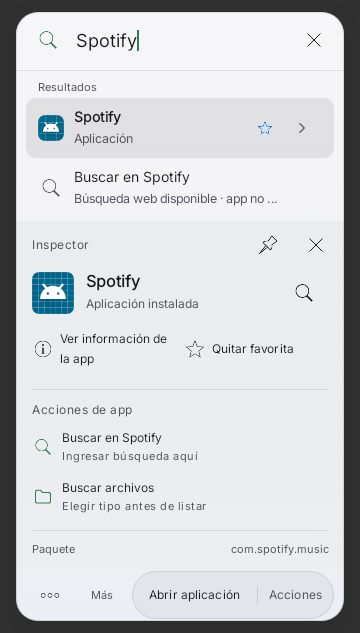
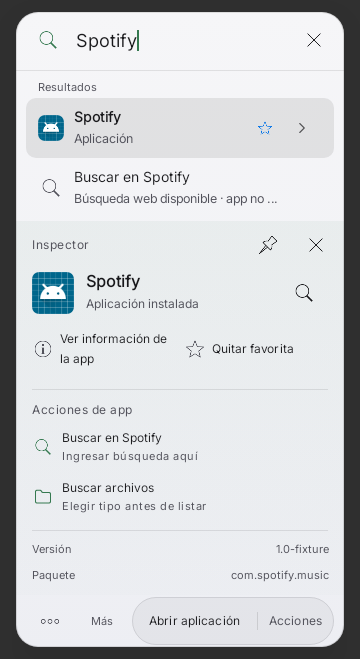
feat(ui): apply compact Obsidian Refinado foundation

diff --git a/app/src/main/java/dev/bautista/spotlight/ui/GlassContextFooter.kt b/app/src/main/java/dev/bautista/spotlight/ui/GlassContextFooter.kt
@@ -44,14 +44,16 @@ import androidx.compose.ui.unit.*
     Text(if(wide)expandLabel else if(expandLabel.startsWith("Ver menos"))"Menos" else "Más",fontSize=GlassTokens.scaledSp(11.sp,appearance),color=colors.onSurfaceVariant)
    }
    if(autocomplete && !actionsOpen && wide)Row(Modifier.padding(horizontal=(8f*d).dp),verticalAlignment=Alignment.CenterVertically){Text("Autocompletar",fontSize=GlassTokens.scaledSp(11.sp,appearance),color=colors.onSurfaceVariant);Spacer(Modifier.width(6.dp));GlassKeycap("Tab")}
-   if(enabled)Row(Modifier.then(if(wide)Modifier else Modifier.weight(1f)).testTag("command-dock-actions").background(colors.onSurface.copy(alpha=.045f),RoundedCornerShape(24.dp))
-    .border(1.dp,colors.onSurface.copy(alpha=.10f),RoundedCornerShape(24.dp)),verticalAlignment=Alignment.CenterVertically) {
-    TextButton(onClick=onExecute,enabled=!actionsOpen,contentPadding=PaddingValues(horizontal=(11f*d).dp),modifier=Modifier.then(if(wide)Modifier.widthIn(max=220.dp) else Modifier.weight(1f)).heightIn(min=48.dp)) {
-     Text(if(actionsOpen)"Ejecutar" else primaryLabel,fontSize=GlassTokens.scaledSp(12.sp,appearance),maxLines=1,overflow=TextOverflow.Ellipsis,color=colors.onSurface)
+   // A quiet text dock on touch layouts; preserve callbacks, 48dp targets and total height.
+   val dock=if(wide)Modifier.background(colors.onSurface.copy(alpha=.035f),RoundedCornerShape(12.dp))
+    .border(1.dp,colors.onSurface.copy(alpha=.08f),RoundedCornerShape(12.dp)) else Modifier
+   if(enabled)Row(Modifier.then(if(wide)Modifier else Modifier.weight(1f)).testTag("command-dock-actions").then(dock),verticalAlignment=Alignment.CenterVertically) {
+    TextButton(onClick=onExecute,enabled=!actionsOpen,contentPadding=PaddingValues(horizontal=(11f*d).dp),modifier=Modifier.then(if(wide)Modifier.widthIn(max=220.dp) else Modifier.weight(1f)).heightIn(min=48.dp).testTag("command-primary")) {
+     Text(if(actionsOpen)"Ejecutar" else primaryLabel,fontSize=GlassTokens.scaledSp(12.sp,appearance),maxLines=1,overflow=TextOverflow.Ellipsis,color=colors.onSurface.copy(alpha=if(actionsOpen).38f else 1f))
      if(wide){Spacer(Modifier.width(6.dp));GlassKeycap("Enter")}
     }
-    Box(Modifier.width(1.dp).height(18.dp).background(colors.onSurface.copy(alpha=.12f)))
-    TextButton(onClick=onActions,contentPadding=PaddingValues(horizontal=(11f*d).dp),modifier=Modifier.heightIn(min=48.dp)) {
+    if(wide)Box(Modifier.width(1.dp).height(18.dp).background(colors.onSurface.copy(alpha=.10f)))
+    TextButton(onClick=onActions,contentPadding=PaddingValues(horizontal=(11f*d).dp),modifier=Modifier.heightIn(min=48.dp).testTag("command-actions")) {
      Text(if(actionsOpen)"Volver" else "Acciones",fontSize=GlassTokens.scaledSp(12.sp,appearance),color=colors.onSurfaceVariant)
      if(wide){Spacer(Modifier.width(6.dp));GlassKeycap(if(actionsOpen)"Escape" else actionsKeyLabel)}
     }

diff --git a/app/src/test/java/dev/bautista/spotlight/ui/C1ChromeContractTest.kt b/app/src/test/java/dev/bautista/spotlight/ui/C1ChromeContractTest.kt
@@ -1,0 +1,47 @@
+package dev.bautista.spotlight.ui
+
+import androidx.compose.foundation.layout.*
+import androidx.compose.runtime.*
+import androidx.compose.ui.Modifier
+import androidx.compose.ui.graphics.Color
+import androidx.compose.ui.test.*
+import androidx.compose.ui.test.junit4.createComposeRule
+import androidx.compose.ui.unit.dp
+import dev.bautista.spotlight.SpotlightApp
+import dev.bautista.spotlight.data.Config as AppConfig
+import org.junit.*
+import org.junit.Assert.*
+import org.junit.runner.RunWith
+import org.robolectric.RobolectricTestRunner
+import org.robolectric.annotation.Config
+
+@RunWith(RobolectricTestRunner::class)
+@Config(sdk=[33],application=SpotlightApp::class)
+class C1ChromeContractTest {
+    @get:Rule val ui=createComposeRule()
+    @Test fun quietTouchDockKeepsTargetsHeightAndIndependentActions() {
+        var opens=0;var actions=0
+        ui.setContent { SpotlightTheme("light",AppConfig(theme="light")) { Box(Modifier.width(320.dp)) {
+            GlassContextFooter(false,true,"Abrir aplicación",{opens++},{actions++})
+        } } }
+        ui.onNodeWithTag("context-footer").assertHeightIsEqualTo(52.dp)
+        ui.onNodeWithTag("command-primary").assertHeightIsAtLeast(48.dp).performClick()
+        ui.onNodeWithTag("command-actions").assertHeightIsAtLeast(48.dp).performClick()
+        ui.runOnIdle{assertEquals(1,opens);assertEquals(1,actions)}
+    }
+    @Test fun openActionMenuCannotExecuteTheStalePrimaryFromDock() {
+        var opens=0;var backs=0
+        ui.setContent { SpotlightTheme("dark") { Box(Modifier.width(360.dp)) {
+            GlassContextFooter(false,true,"Abrir",{opens++},{backs++},actionsOpen=true)
+        } } }
+        ui.onNodeWithTag("command-primary").assertIsNotEnabled()
+        ui.onNodeWithTag("command-actions").assertTextContains("Volver").performClick()
+        ui.runOnIdle{assertEquals(0,opens);assertEquals(1,backs)}
+    }
+    @Test fun restrainedResultFocusStillContrastsInBothThemes() {
+        assertTrue(InspectorAccent.contrast(GlassTokens.resultFocusColor(false),GlassTokens.paper)>=3f)
+        assertTrue(InspectorAccent.contrast(GlassTokens.resultFocusColor(true),GlassTokens.graphite)>=3f)
+        assertEquals(1.dp,GlassTokens.resultFocusStroke)
+        assertEquals(2.dp,GlassTokens.focusStroke) // ActionPanel remains independently accessible.
+    }
+}

diff --git a/app/src/main/java/dev/bautista/spotlight/ui/SpotlightWidgets.kt b/app/src/main/java/dev/bautista/spotlight/ui/SpotlightWidgets.kt
@@ -86,6 +86,7 @@ fun ResultRow(
     val motion=animations && LocalMotion.current
     val interaction=remember{MutableInteractionSource()}
     val hovered by interaction.collectIsHoveredAsState()
+    val focused by interaction.collectIsFocusedAsState()
     val appearance=LocalAppearance.current
     val d=GlassTokens.densityScale(appearance)
     val pad=GlassTokens.rowVerticalPadding(appearance,inline)
@@ -98,7 +99,8 @@ fun ResultRow(
         Modifier.fillMaxWidth().testTag("result:${result.id}").heightIn(min=if(inline)GlassTokens.resultRowHeight(appearance) else (60f*d).coerceAtLeast(48f).dp).semantics { this.selected=selected; customActions=listOf(CustomAccessibilityAction("Operaciones del resultado"){onInteraction();onDetails();true}) }
             .clip(RoundedCornerShape(GlassTokens.rowRadius))
             .background(fill)
-            .background(colors.onSurface.copy(alpha=.09f*amount))
+            .background(Brush.horizontalGradient(GlassTokens.selectedColors(dark,amount)))
+            .then(if(focused)Modifier.border(GlassTokens.resultFocusStroke,GlassTokens.resultFocusColor(dark),RoundedCornerShape(GlassTokens.rowRadius)) else Modifier)
 
             // Let Compose arbitrate taps versus list dragging. Selecting on pointer-down
             // opens automatic Quick Look before LazyColumn can claim the scroll gesture.
@@ -118,7 +120,7 @@ fun ResultRow(
             Text(result.title,color=ink,fontWeight=if(selected)FontWeight.SemiBold else FontWeight.Medium,
                 modifier=Modifier.weight(1f,fill=false),
                 fontSize=GlassTokens.scaledSp(GlassTokens.rowText(appearance),appearance),
-                letterSpacing=0.sp,maxLines=1,overflow=TextOverflow.Ellipsis)
+                lineHeight=GlassTokens.scaledSp(18.sp,appearance),letterSpacing=0.sp,maxLines=1,overflow=TextOverflow.Ellipsis)
             if(inline && !PreviewPresentation.isApplication(result) && result.subtitle.isNotBlank())Text(result.subtitle,
                 Modifier.weight(1f),color=colors.onSurfaceVariant,fontSize=GlassTokens.scaledSp(GlassTokens.secondaryText,appearance),
                 maxLines=1,overflow=TextOverflow.Ellipsis)

diff --git a/app/src/main/java/dev/bautista/spotlight/ui/GlassTokens.kt b/app/src/main/java/dev/bautista/spotlight/ui/GlassTokens.kt
@@ -50,6 +50,9 @@ object GlassTokens {
     @Composable fun selection()=MaterialTheme.colorScheme.onSurface.copy(alpha=.08f)
     @Composable fun hover()=MaterialTheme.colorScheme.onSurface.copy(alpha=.04f)
     val focusStroke=2.dp
+    // Result focus is quieter than the independent ActionPanel, including in light mode.
+    val resultFocusStroke=1.dp
+    fun resultFocusColor(dark:Boolean)=if(dark)Color(0xFF969AAB) else Color(0xFF747783)
     @Composable fun focusRing()=MaterialTheme.colorScheme.onSurface
     @Composable fun inputOutline()=MaterialTheme.colorScheme.onSurface.copy(alpha=.50f)
     const val glyphStroke=1.5f
@@ -88,11 +91,11 @@ object GlassTokens {
     val shape=RoundedCornerShape(GlassTokens.windowRadius)
     val dark=colors.surface.luminance()<.5f
     val material=GlassTokens.windowColors(c,dark,legibleBackdrop)
-    return shadow(24.dp,shape,clip=false,
-            ambientColor=Color.Black.copy(alpha=.24f),spotColor=Color.Black.copy(alpha=.40f))
+    return shadow(18.dp,shape,clip=false,
+            ambientColor=Color.Black.copy(alpha=.18f),spotColor=Color.Black.copy(alpha=.30f))
         .clip(shape)
         .background(Brush.verticalGradient(material))
-        .border(1.dp,(if(dark)Color.White else Color.Black).copy(alpha=if(dark).16f else .12f),shape)
+        .border(1.dp,(if(dark)Color.White else Color.Black).copy(alpha=if(dark).14f else .10f),shape)
         .drawWithContent {
             drawContent()
             drawLine(Color.White.copy(alpha=if(dark).12f else .60f),

diff --git a/app/src/test/java/dev/bautista/spotlight/ui/C1SceneContractTest.kt b/app/src/test/java/dev/bautista/spotlight/ui/C1SceneContractTest.kt
@@ -53,6 +53,8 @@ class C1SceneContractTest {
         // Preview60 uses the existing stacked60dp row on compact phones, inline48dp on tablet.
         ui.onNodeWithTag("result:com.spotify.music/Main").assertHeightIsEqualTo(if(width<700)60.dp else 48.dp).performClick()
         ui.onNodeWithTag("inspector-title").assertTextEquals("Spotify")
+        // Package metadata loads on IO. Capture the settled scene, not an intermediate height.
+        ui.waitUntil(15000){ui.onAllNodesWithText("1.0-fixture").fetchSemanticsNodes().isNotEmpty()}
         ui.onNodeWithTag("context-footer").assertIsDisplayed()
         if(width<700)ui.onNodeWithTag("context-inspector").assertDoesNotExist()
         capture("${if(width<700)"phone" else "tablet"}-$theme-inspector")

diff --git a/app/src/main/java/dev/bautista/spotlight/ui/SpotlightPanel.kt b/app/src/main/java/dev/bautista/spotlight/ui/SpotlightPanel.kt
@@ -989,7 +989,7 @@ fun SpotlightPanel(
                     { acceptSuggestion() },
                     motionEnabled,
                     autocompleteKeyLabel=KeyboardBindings.resolve(config,"complete")!!.label,
-                    contextAccent=rememberCommandAccent(selectedResult),
+                    contextAccent=null,
                     showOptionsButton=optionsInHeader,
                     onDismiss=onClose,
                     onOptionsChange={searchOptions=it},
